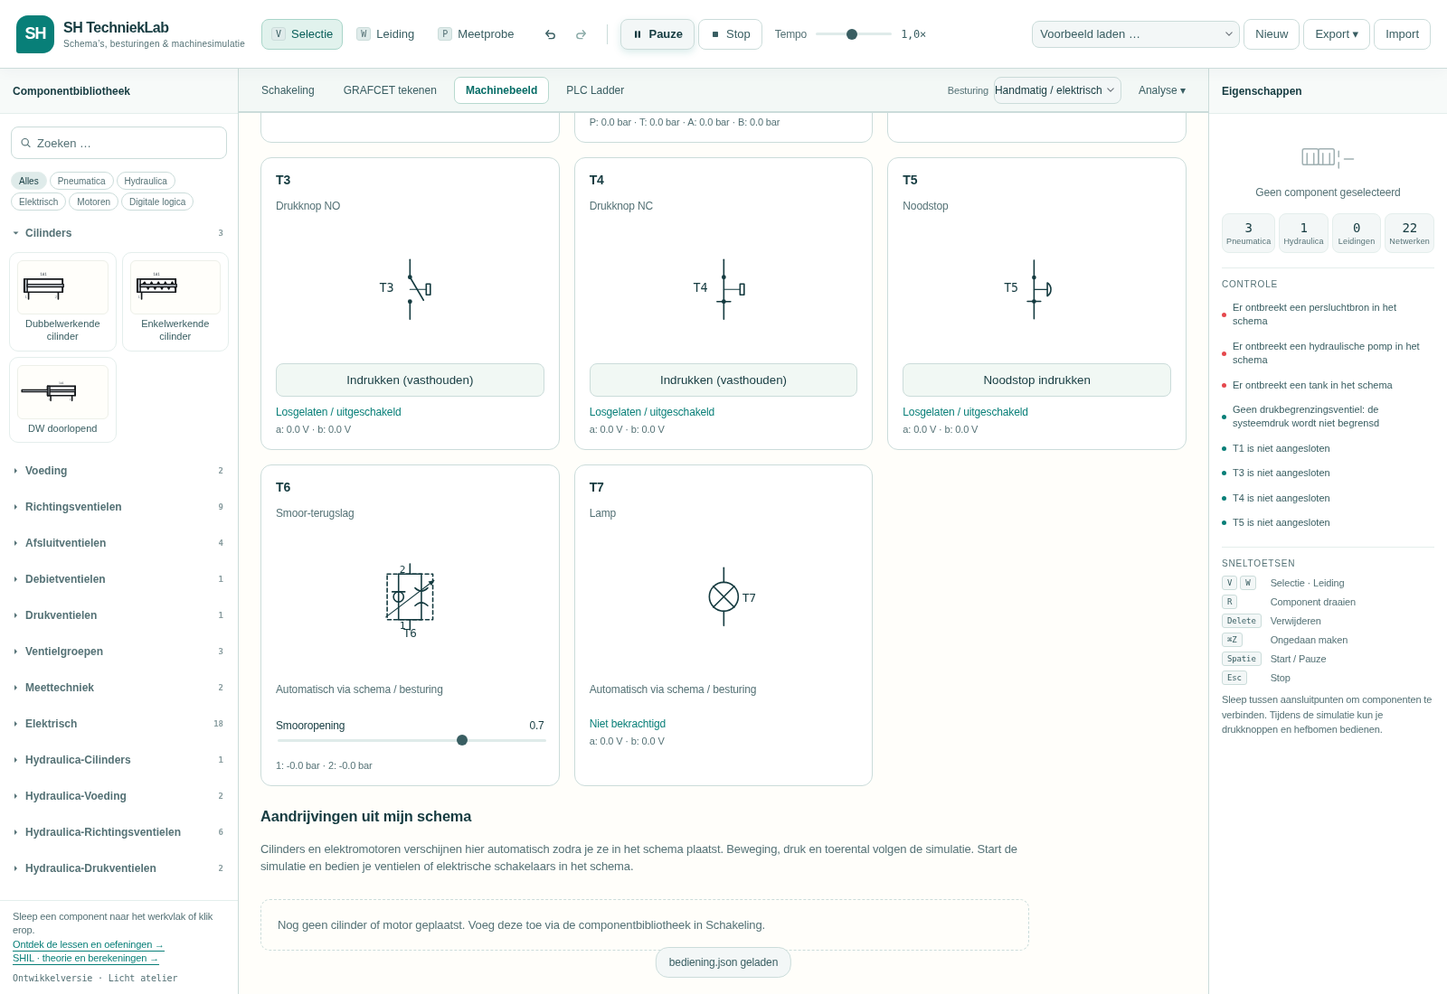
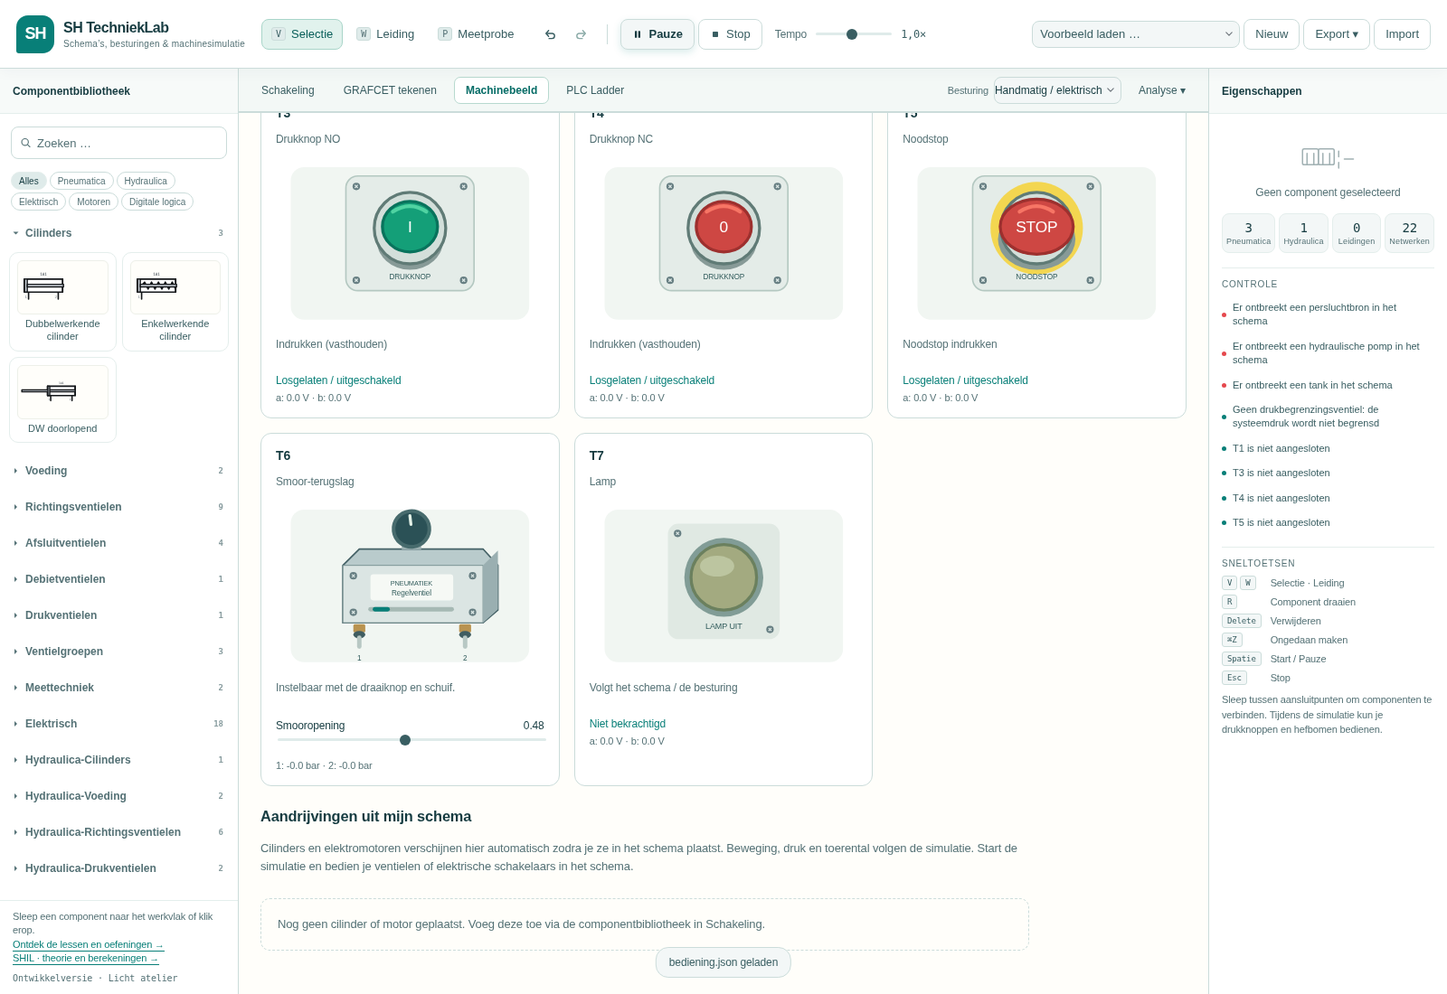
Replace process schematics with operable physical component illustrations

diff --git a/src/physical-components.js b/src/physical-components.js
@@ -1,0 +1,56 @@
+/** Own physical illustrations, deliberately independent of the schematic renderer. */
+const esc=v=>String(v).replace(/[&<>"']/g,c=>({'&':'&amp;','<':'&lt;','>':'&gt;','"':'&quot;',"'":'&#39;'}[c]));
+const text=(x,y,label,size=12,color='#335d5d')=>`<text x="${x}" y="${y}" text-anchor="middle" font-family="Arial,sans-serif" font-size="${size}" fill="${color}">${esc(label)}</text>`;
+const bolt=(x,y)=>`<circle cx="${x}" cy="${y}" r="5" fill="#667e82"/><path d="M${x-2} ${y-2}l4 4m0-4l-4 4" stroke="#dce7e5" stroke-width="1.5"/>`;
+export function physicalKind(inst,def){
+  if(['btn_no','btn_nc','estop'].includes(inst.type))return 'pushbutton';
+  if(def.geom||/ventiel|smoor/i.test(def.name))return 'valve';
+  if(/gauge/.test(inst.type))return 'gauge';
+  if(inst.type==='lamp')return 'lamp';
+  if(/sensor|switch/.test(inst.type)||/sensor|schakelaar/i.test(def.name))return 'sensor';
+  return 'module';
+}
+function pushbutton(i){
+  const pressed=!!i.sim.pressed,emergency=i.type==='estop',red=emergency||i.type==='btn_nc';
+  const color=red?'#ce4743':'#149f78',light=red?'#f77565':'#50d3a2';
+  return `<rect x="94" y="24" width="172" height="154" rx="16" fill="#e4ece8" stroke="#b4c8c1" stroke-width="2"/>${bolt(108,38)}${bolt(252,164)}${bolt(252,38)}${bolt(108,164)}${emergency?'<circle cx="180" cy="94" r="62" fill="#f3d650"/>':''}<ellipse cx="180" cy="${pressed?115:109}" rx="${emergency?52:45}" ry="41" fill="#879a97"/><circle cx="180" cy="94" r="48" fill="#d3dfda" stroke="#607b76" stroke-width="4"/><g transform="translate(0 ${pressed?7:0})"><ellipse cx="180" cy="92" rx="${emergency?49:37}" ry="${emergency?37:34}" fill="${color}" stroke="${red?'#9d302e':'#08735c'}" stroke-width="4"/><path d="M157 72Q180 57 202 72" fill="none" stroke="${light}" stroke-width="5" stroke-linecap="round"/>${text(180,99,emergency?'STOP':red?'0':'I',21,'white')}</g>${text(180,163,emergency?(pressed?'VERGRENDELD':'NOODSTOP'):(pressed?'INGEDRUKT':'DRUKKNOP'),10)}`;
+}
+function valve(i,d,sim){
+  const oil=d.ports.some(p=>p.kind==='hydraulic'),fluid=oil?'#bd8a35':'#278fbb',active=Number(i.sim.state||0),geom=d.geom;
+  const opening=i.params.opening||i.params.setpoint||i.params.pressure;
+  const act=geom?.actLeft||(d.manual?'lever':opening?'knob':'housing');
+  const right=geom?.actRight||'housing';
+  const lever=act==='lever',angle=d.manual?(i.sim.lever||0)*30:(i.sim.pressed?30:-25);
+  let image=`<path d="M90 87L112 65H278L298 87V147L278 164H90Z" fill="${oil?'#607e83':'#b9cbcc'}" stroke="#446166" stroke-width="2"/><path d="M90 87H278V164H90Z" fill="${oil?'#7e999c':'#dbe5e3'}" stroke="#6a8586"/><path d="M278 87L298 67V146L278 164Z" fill="#9aafb1"/>${bolt(104,101)}${bolt(264,101)}${bolt(104,150)}${bolt(264,150)}<rect x="127" y="99" width="111" height="35" rx="4" fill="#f6f9f5"/>${text(182,114,oil?'HYDRAULIEK':'PNEUMATIEK',9)}${text(182,128,geom?`${geom.boxes.length} standen`:'Regelventiel',10)}<rect x="124" y="143" width="115" height="6" rx="3" fill="#a6b9b4"/><rect x="${130+active*31}" y="143" width="23" height="6" rx="3" fill="#087f78"/>`;
+  if(lever){const x=d.manual?180:91;image+=`<circle cx="${x}" cy="88" r="13" fill="#344c52"/><g transform="rotate(${angle} ${x} 88)"><path d="M${x} 88V32" stroke="#a8b7b6" stroke-width="9"/><ellipse cx="${x}" cy="28" rx="15" ry="20" fill="#284a50"/><path d="M${x-5} 16V32" stroke="#58767a" stroke-width="4" stroke-linecap="round"/></g>`;}
+  else if(act==='button')image+=`<rect x="59" y="102" width="31" height="25" fill="#9cafb1"/><g transform="translate(${i.sim.pressed?9:0} 0)"><rect x="45" y="98" width="20" height="32" rx="6" fill="#c64c40"/><path d="M49 104V123" stroke="#fa9580" stroke-width="3"/></g>`;
+  else if(act==='roller')image+=`<path d="M90 92L61 ${i.sim.state?56:45}" stroke="#8d9f9d" stroke-width="8"/><circle cx="60" cy="${i.sim.state?52:41}" r="12" fill="#354f55" stroke="#9fb5ae" stroke-width="4"/>`;
+  for(const [side,a]of [[0,act],[1,right]]){
+    const x=side?297:47;
+    if(a==='solenoid'){
+      const tag=i.params[side?'solB':'solA']?.value,on=!!sim.energized.get(tag);
+      image+=`<rect x="${x}" y="94" width="40" height="48" rx="5" fill="#304a50"/><rect x="${x+8}" y="82" width="24" height="18" rx="3" fill="#415e65"/><path d="M${x+20} 82V66" stroke="#344d52" stroke-width="5"/><circle cx="${x+29}" cy="106" r="5" fill="${on?'#ffc94a':'#78908c'}"/>${text(x+20,157,tag||'Spoel',9)}`;
+    } else if(a==='pilot')image+=`<rect x="${x}" y="102" width="33" height="30" rx="6" fill="#6798a8"/><path d="M${x+16} 102V74" stroke="${fluid}" stroke-width="6"/>`;
+    else if(a==='spring')image+=`<rect x="${x}" y="100" width="24" height="33" rx="5" fill="#9fb2b3"/><path d="M${x+6} 104V129M${x+12} 104V129M${x+18} 104V129" stroke="#718c8e" stroke-width="2"/>`;
+  }
+  const ports=d.ports.filter(p=>p.kind!=='electric').slice(0,7);
+  ports.forEach((p,n)=>{const x=112+n*(142/Math.max(1,ports.length-1));const bar=oil?sim.hgauge(i.id,p.id):sim.gauge(i.id,p.id);image+=`<rect x="${x-8}" y="166" width="16" height="11" rx="2" fill="#b99350"/><ellipse cx="${x}" cy="180" rx="8" ry="5" fill="#405d61"/><path d="M${x} 184V196" stroke="${bar>.2?fluid:'#b8c8c4'}" stroke-width="6" stroke-linecap="round"/>${text(x,215,p.id,10)}`;});
+  if(opening){const f=(opening.value-opening.min)/(opening.max-opening.min);image+=`<rect x="169" y="36" width="26" height="30" fill="#9aafb0"/><g transform="rotate(${-135+270*f} 182 38)"><circle cx="182" cy="38" r="24" fill="#2b5156" stroke="#476b6d" stroke-width="5"/><path d="M182 20V32" stroke="#e4f2e8" stroke-width="4" stroke-linecap="round"/></g>`;}
+  return image;
+}
+function gauge(i,d,sim){
+  const oil=d.ports[0]?.kind==='hydraulic',bar=oil?sim.hgauge(i.id,d.ports[0].id):sim.gauge(i.id,d.ports[0].id),angle=-130+260*Math.max(0,Math.min(1,bar/(oil?250:10)));
+  let marks='';for(let n=0;n<=10;n++)marks+=`<path d="M180 40V${n%2?48:53}" transform="rotate(${-130+n*26} 180 103)" stroke="#415b60" stroke-width="2"/>`;
+  return `<rect x="172" y="171" width="16" height="26" fill="#b99350"/><circle cx="180" cy="103" r="77" fill="#95aaa9"/><circle cx="180" cy="103" r="68" fill="#fffdf5" stroke="#3d5c5f" stroke-width="3"/>${marks}<path d="M180 103V49" transform="rotate(${angle} 180 103)" stroke="#cd5143" stroke-width="4"/><circle cx="180" cy="103" r="7" fill="#365d62"/>${text(180,136,bar.toFixed(1)+' bar',17)}`;
+}
+function moduleImage(i,d){
+  const on=!!(i.sim.on||i.sim.closed||i.sim.powered),sensor=/sensor|switch|schakelaar/i.test(d.name),lamp=i.type==='lamp';
+  if(lamp)return `<rect x="105" y="31" width="150" height="155" rx="14" fill="#e0e9e3"/>${bolt(118,44)}${bolt(242,173)}<circle cx="180" cy="103" r="53" fill="#819c96"/><circle cx="180" cy="103" r="44" fill="${on?'#ffd35c':'#a3aa80'}" stroke="#6b805e" stroke-width="4"/><ellipse cx="171" cy="88" rx="23" ry="14" fill="${on?'#fff1a6':'#bcc5a0'}"/>${text(180,172,on?'LAMP AAN':'LAMP UIT',11)}`;
+  if(sensor)return `<path d="M72 109H120" stroke="#4c7279" stroke-width="9"/><rect x="118" y="81" width="133" height="48" rx="14" fill="#b7c6c4" stroke="#6c898a" stroke-width="2"/><path d="M140 83V127M150 83V127M160 83V127M170 83V127" stroke="#839b9b" stroke-width="3"/><ellipse cx="253" cy="105" rx="12" ry="24" fill="#42656d"/><circle cx="226" cy="93" r="6" fill="${on?'#ffcb47':'#809385'}"/>${text(185,158,on?'GEDETECTEERD':'SENSOR VRIJ',12)}`;
+  const controller=/^(plc|grafcet)_io$/.test(i.type),tank=i.type==='h_tank';
+  return `<path d="M95 54L117 38H269L287 54V172L268 190H95Z" fill="#8fa5a5"/><rect x="95" y="54" width="174" height="136" rx="9" fill="${tank?'#8eaaa7':controller?'#d4dfdb':'#dfe8e1'}" stroke="#637e80" stroke-width="2"/>${bolt(108,67)}${bolt(256,177)}<rect x="116" y="77" width="131" height="51" rx="5" fill="#375b60"/>${text(181,99,controller?(i.type==='plc_io'?'PLC':'GRAFCET'):tank?'OLIERESERVOIR':d.short,controller?17:11,'#eef6eb')}${text(181,118,on?'ACTIEF':'SH TechniekLab',10,'#b6d7c6')}<circle cx="237" cy="141" r="6" fill="${on?'#70cf95':'#829b8f'}"/>${Array.from({length:5},(_,n)=>`<rect x="${123+n*24}" y="165" width="16" height="17" rx="2" fill="#617e82"/><circle cx="${131+n*24}" cy="174" r="3" fill="#d5e2dc"/>`).join('')}`;
+}
+export function physicalComponentSVG(inst,def,sim){
+  const kind=physicalKind(inst,def),image=kind==='pushbutton'?pushbutton(inst):kind==='valve'?valve(inst,def,sim):kind==='gauge'?gauge(inst,def,sim):moduleImage(inst,def);
+  return `<svg xmlns="http://www.w3.org/2000/svg" viewBox="0 0 360 230" role="img" aria-label="${esc('Fysieke uitvoering: '+def.short)}" data-physical-kind="${kind}"><rect x="20" y="12" width="320" height="205" rx="18" fill="#f1f6f2"/>${image}</svg>`;
+}

diff --git a/src/process-controls.js b/src/process-controls.js
@@ -1,9 +1,8 @@
+import { physicalComponentSVG } from './physical-components.js';
 import { BY_ID } from './catalog.js';
 import { isVisualActuator } from './actuator-view.js';
 import { bindManualButton } from './manual-control.js';
 const esc=v=>String(v).replace(/[&<>"']/g,c=>({'&':'&amp;','<':'&lt;','>':'&gt;','"':'&quot;',"'":'&#39;'}[c]));
-// Inline styles also keep a printed process symbol readable outside the application.
-const ink='<style>.sym{fill:none;stroke:#153b40;stroke-width:1.6;stroke-linecap:round;stroke-linejoin:round}.sym.thin{stroke-width:1.1}.sym.fill{fill:#153b40;stroke:none}.sym.fill-soft{fill:#cfd6dd}.sym.barrel{fill:white}.sym.dash{stroke-dasharray:4 3}.sym.live-fill{fill:#c5eadc;stroke:#087f78}.sym.lamp-on{fill:#ffd66b;stroke:#a67c00}.sym-label,.sym-port,.sym-tag{fill:#153b40;stroke:none;font-family:monospace;font-size:10px}.sym-port{font-size:8px}.sym-tag{font-size:9px}.needle{stroke:#cf5548;stroke-width:1.6}</style>';
 export function processStatus(inst,def){
   const s=inst.sim,parts=[];
   if(def.manual)parts.push(`Hefboom: ${s.lever<0?'links':s.lever>0?'rechts':'midden'}`);
@@ -25,12 +24,27 @@ export class ProcessControls {
     const card=i=>{
       const def=BY_ID.get(i.type),knobs=Object.entries(i.params).filter(([key,p])=>p.type==='range'&&['opening','pressure','setpoint'].includes(key));
       const buttons=def.interactive?(def.manual?'<button data-operate="-1">◀ Links vasthouden</button><button data-operate="1">Rechts vasthouden ▶</button>':'<button data-operate="1"></button>'):`<p class="process-automatic">${knobs.length?'Handmatig instelbaar via schuif':'Volgt het schema / de besturing'}</p>`;
-      return `<article class="process-card" data-process="${esc(i.id)}"><h4>${esc(i.params.tag?.value||def.short)}</h4><p>${esc(def.short)}</p><svg viewBox="-85 -25 ${def.size.w+170} ${def.size.h+55}" role="img" aria-label="${esc(def.short)}"><g data-process-symbol></g></svg><div class="process-buttons">${buttons}</div>${def.manual?'<p>Veerterugstelling: loslaten = middenstand.</p>':''}${knobs.map(([key,p])=>`<label>${esc(p.label)} <output data-knob-value="${key}"></output><input data-process-knob="${key}" type="range" min="${p.min}" max="${p.max}" step="${p.step}" value="${p.value}"></label>`).join('')}<div data-process-state></div><div data-process-ports></div></article>`;
+      return `<article class="process-card" data-process="${esc(i.id)}"><h4>${esc(i.params.tag?.value||def.short)}</h4><p>${esc(def.short)}</p><div class="process-device ${def.interactive?'process-device-operable':''}"><div data-process-physical>${physicalComponentSVG(i,def,this.simulation())}</div><div class="process-buttons">${def.interactive?buttons:''}</div></div><p data-process-action>${def.interactive?'Bedien het fysieke onderdeel hierboven.':knobs.length?'Instelbaar met de draaiknop en schuif.':'Volgt het schema / de besturing'}</p>${def.manual?'<p>Veerterugstelling: loslaten = middenstand.</p>':''}${knobs.map(([key,p])=>`<label>${esc(p.label)} <output data-knob-value="${key}"></output><input data-process-knob="${key}" type="range" min="${p.min}" max="${p.max}" step="${p.step}" value="${p.value}"></label>`).join('')}<div data-process-state></div><div data-process-ports></div></article>`;
     };
     this.host.innerHTML=`<section class="process-overview"><h3>Bediening en ventielen uit mijn schema</h3><p>Bedien handmatige onderdelen hier rechtstreeks. Houd drukknoppen en veerteruggestelde hefbomen ingedrukt; vergrendelende knoppen blijven staan tot je opnieuw drukt. Elektrische ventielen volgen hun spoelen en sensoren volgen hun schema.</p><div class="process-grid">${parts.filter(primary).map(card).join('')}</div>${parts.some(i=>!primary(i))?`<details class="process-other"><summary>Voedingen en overige schemaonderdelen</summary><div class="process-grid">${parts.filter(i=>!primary(i)).map(card).join('')}</div></details>`:''}${parts.length?'':'<p>Plaats drukknoppen, ventielen of andere onderdelen in Schakeling; ze verschijnen hier automatisch.</p>'}</section>`;
     for(const node of this.host.querySelectorAll('[data-process]')){
       const inst=this.circuit().byId(node.dataset.process),def=BY_ID.get(inst.type);
       for(const button of node.querySelectorAll('[data-operate]'))this.disposers.push(bindManualButton(button,{inst,def,direction:Number(button.dataset.operate),run:this.run,live:()=>this.live()}));
+      const dialInput=node.querySelector('[data-process-knob]');
+      if(dialInput&&!def.interactive){
+        const device=node.querySelector('.process-device');let drag=null;
+        device.addEventListener('pointerdown',e=>{
+          if(e.button!==0)return;const svg=device.querySelector('svg'),point=svg.createSVGPoint();point.x=e.clientX;point.y=e.clientY;
+          const p=point.matrixTransform(svg.getScreenCTM().inverse());if(Math.hypot(p.x-182,p.y-38)>30)return;
+          e.preventDefault();drag={id:e.pointerId,x:e.clientX,y:e.clientY,value:Number(dialInput.value)};device.setPointerCapture(e.pointerId);
+        });
+        device.addEventListener('pointermove',e=>{
+          if(!drag||e.pointerId!==drag.id)return;const min=Number(dialInput.min),max=Number(dialInput.max),step=Number(dialInput.step);
+          const value=drag.value+(e.clientX-drag.x+drag.y-e.clientY)*(max-min)/180;
+          dialInput.value=String(Math.max(min,Math.min(max,min+Math.round((value-min)/step)*step)));dialInput.dispatchEvent(new Event('input',{bubbles:true}));
+        });
+        const end=()=>{drag=null;};device.addEventListener('pointerup',end);device.addEventListener('pointercancel',end);device.addEventListener('lostpointercapture',end);
+      }
       for(const input of node.querySelectorAll('[data-process-knob]'))input.addEventListener('input',()=>{
         const p=inst.params[input.dataset.processKnob];const n=Number(input.value);if(!Number.isFinite(n))return;
         p.value=Math.max(p.min,Math.min(p.max,n));this.parametersChanged(inst,input.dataset.processKnob);this.live();
@@ -42,13 +56,14 @@ export class ProcessControls {
     const sim=this.simulation();
     for(const card of this.host.querySelectorAll('[data-process]')){
       const inst=this.circuit().byId(card.dataset.process);if(!inst)continue;const def=BY_ID.get(inst.type);
-      const html=ink.replaceAll('.sym','[data-process-symbol] .sym').replaceAll('.needle','[data-process-symbol] .needle')+def.render(inst),symbol=card.querySelector('[data-process-symbol]');if(symbol._markup!==html){symbol.innerHTML=html;symbol._markup=html;}
+      const html=physicalComponentSVG(inst,def,sim),image=card.querySelector('[data-process-physical]');if(image._markup!==html){image.innerHTML=html;image._markup=html;}
       card.querySelector('[data-process-state]').textContent=processStatus(inst,def);
       card.querySelector('[data-process-ports]').textContent=def.ports.map(p=>p.kind==='electric'?`${p.id}: ${sim.volts(inst.id,p.id).toFixed(1)} V`:`${p.id}: ${(p.kind==='hydraulic'?sim.hgauge(inst.id,p.id):sim.gauge(inst.id,p.id)).toFixed(1)} bar`).join(' · ');
       for(const button of card.querySelectorAll('[data-operate]')){
         const active=def.manual?inst.sim.lever===Number(button.dataset.operate):!!inst.sim.pressed;button.setAttribute('aria-pressed',String(active));
         if(!def.manual)button.textContent=inst.type==='estop'?(active?'Noodstop ontgrendelen':'Noodstop indrukken'):inst.type==='industrial_overload'?'Thermisch relais resetten':def.toggle?(active?'Uitschakelen / vrijgeven':'Inschakelen / vergrendelen'):'Indrukken (vasthouden)';
       }
+      if(def.interactive)card.querySelector('[data-process-action]').textContent=def.manual?'Houd de linker- of rechterkant van de hefboom ingedrukt.':card.querySelector('[data-operate]').textContent;
       for(const output of card.querySelectorAll('[data-knob-value]')){const p=inst.params[output.dataset.knobValue];output.textContent=String(p.value)+(p.unit?' '+p.unit:'');}
     }
   }

diff --git a/styles.css b/styles.css
@@ -1174,3 +1174,5 @@ a { color: var(--accent); text-underline-offset: 3px; }
 /* Floating outside the horizontally scrolling topbar prevents menu clipping. */
 #export-menu{position:fixed;right:auto;z-index:10000;max-width:calc(100vw - 16px);max-height:calc(100vh - 16px);overflow-y:auto}
 .process-overview{margin:24px 0}.process-overview>p{max-width:850px;font-size:13px;line-height:1.5;color:var(--text-3)}.process-grid{display:grid;grid-template-columns:repeat(auto-fit,minmax(255px,1fr));gap:16px}.process-card{min-width:0;background:white;border:1px solid var(--line);border-radius:12px;padding:16px}.process-card h4{margin:0;overflow-wrap:anywhere}.process-card p{font-size:12px;color:var(--text-3);line-height:1.5}.process-card svg{width:100%;height:150px}.process-buttons{display:flex;flex-wrap:wrap;gap:6px}.process-buttons button{flex:1;padding:10px;border:1px solid var(--line);border-radius:8px;background:#f1f8f4;color:var(--text);touch-action:none;cursor:pointer}.process-buttons button[aria-pressed=true]{background:#c5eadc;border-color:var(--accent)}.process-card[data-process] label{display:block;font-size:12px;margin:12px 0}.process-card input[type=range]{width:100%}.process-card output{float:right;font-variant-numeric:tabular-nums}.process-card [data-process-state]{margin-top:10px;font-size:12px;color:var(--accent)}.process-card [data-process-ports]{font-size:11px;color:var(--text-3);margin-top:6px;overflow-wrap:anywhere}.process-other{margin-top:16px}.process-other summary{cursor:pointer;margin-bottom:14px}.process-card button:focus-visible{outline:3px solid #087f78;outline-offset:3px}
+/* The pictured device itself is the control, with transparent native button hit areas. */
+.process-device{position:relative}.process-device [data-process-physical]>svg{display:block;width:100%;height:auto;max-height:220px}.process-device .process-buttons{position:absolute;inset:0;display:flex;gap:0}.process-device .process-buttons button{background:transparent!important;color:transparent;border:0;margin:0;border-radius:18px;font-size:0;cursor:pointer}.process-device .process-buttons button[aria-pressed=true]{background:transparent;border:0}.process-device .process-buttons button:focus-visible{outline:3px solid #087f78;outline-offset:-5px;background:#087f7810!important}.process-device-operable{user-select:none}.process-device-operable:hover{filter:brightness(.98)}.process-card [data-process-action]{min-height:32px;font-size:12px;color:var(--text-3);margin:8px 0}

diff --git a/docs/HANDLEIDING-NL.md b/docs/HANDLEIDING-NL.md
@@ -198,15 +198,15 @@ Onder **Extra: interne verbindingen tekenen** kies je een stand en klik je twee 
 
 ## Drukknoppen en ventielen bedienen in Machinebeeld
 
-Onder **Bediening en ventielen uit mijn schema** verschijnen automatisch de drukknoppen, noodstop, handventielen, elektrische/pneumatische stuurventielen, sensoren, spoelen en lampen uit je schema. Onder **Voedingen en overige schemaonderdelen** vind je de overige componenten. De symbolen en meetwaarden volgen dezelfde simulatie als het schema.
+Onder **Bediening en ventielen uit mijn schema** verschijnen automatisch de drukknoppen, noodstop, handventielen, elektrische/pneumatische stuurventielen, sensoren, spoelen en lampen uit je schema. Onder **Voedingen en overige schemaonderdelen** vind je de overige componenten. Je ziet fysieke afbeeldingen: ronde drukknoppen, een rode paddenstoelnoodstop, metalen ventielblokken met hefboom, drukknop of spoelen, sensoren en lampen. Druk rechtstreeks op de afbeelding om het onderdeel te bedienen. Standen, indicatielampjes en meetwaarden volgen dezelfde simulatie als het schema.
 
 - **Indrukken (vasthouden)** bedient een momentane knop zolang je de muis/vinger of Spatie/Enter ingedrukt houdt. Loslaten, annuleren, focusverlies en een ander tabblad openen geven de knop vrij.
 - Vergrendelende knoppen en ventielen blijven in hun gekozen toestand staan. Druk opnieuw om vrij te geven. Bij de noodstop heet dit **Noodstop ontgrendelen**.
 - Een hydraulisch 4/3-handventiel heeft **Links vasthouden** en **Rechts vasthouden**. Loslaten laat de hefboom terugveren naar de middenstand.
-- Met de schuiven wijzig je smooropeningen en drukinstellingen. Dit verandert dezelfde componentinstelling als het eigenschappenpaneel en wordt met je schema opgeslagen; ongedaan maken is beschikbaar.
+- Bij een instelventiel kun je de afgebeelde draaiknop naar rechts/omhoog slepen om de instelling te verhogen, of naar links/omlaag om te verlagen. Met de schuiven wijzig je eveneens smooropeningen en drukinstellingen. Dit verandert dezelfde componentinstelling als het eigenschappenpaneel en wordt met je schema opgeslagen; ongedaan maken is beschikbaar.
 - Automatisch bediende ventielen krijgen geen rechtstreekse handbediening. Ze schakelen via hun echte spoel- of stuursignalen. Eindstandsensoren blijven door hun gekoppelde cilinder bediend.
 
-Handbediening start de simulatie als die nog niet loopt. Het geeft een fysieke input aan het model en omzeilt geen bedrading, defecten of programmavoorwaarden. Afdrukken neemt de zichtbare componentsymbolen mee, zonder bedieningsknoppen.
+Handbediening start de simulatie als die nog niet loopt. Het geeft een fysieke input aan het model en omzeilt geen bedrading, defecten of programmavoorwaarden. Afdrukken neemt de fysieke afbeeldingen mee. In het schemablad blijven de technische symbolen behouden.
 
 ## Alle cilinders en motoren zichtbaar simuleren
 

diff --git a/README.md b/README.md
@@ -12,7 +12,7 @@ De vroegere naam was **SH PN · HYD**. De repository blijft `DHRHermans/SHPNHYD`
 - Ventielbediening, veer/geheugen en beschikbare middenstanden kiezen. Als extra kun je per stand interne verbindingen tussen bestaande poorten tekenen.
 - GRAFCET tekenen en PLC Ladder opbouwen met contacten, parallelle takken, spoelen, set/reset en TON/TOF-timers.
 - Een **PLC- of GRAFCET-module met 8 ingangen en 8 uitgangen** in het schema plaatsen en elektrisch bedraden.
-- Drukknoppen en handventielen direct bedienen in Machinebeeld; automatische ventielen, sensoren, spoelen en overige onderdelen volgen dezelfde schematoestand.
+- Fysiek afgebeelde drukknoppen en handventielen direct bedienen in Machinebeeld; automatische ventielen, sensoren, spoelen en overige onderdelen volgen dezelfde schematoestand.
 - Automatisch bewegende beelden van alle pneumatische/hydraulische cilinders en driefasen-/DC-motoren uit je schema, inclusief slag, druk, toerental en draairichting.
 - In **Machinebeeld** zelf een kolombooropstelling bouwen: onderdelen plaatsen en verslepen, eigen cilinders/motor/signalen koppelen en zelf GRAFCET of Ladder tekenen. Het beeld volgt jouw schema; een uitgewerkt lesvoorbeeld is apart beschikbaar.
 - Oscilloscoop, weg-stapdiagram en onderdelenlijst als verplaatsbare analysevensters openen.

diff --git a/docs/TESTING.md b/docs/TESTING.md
@@ -87,3 +87,5 @@ The combined suite contains 166 executed tests. Browser checks cover manual and 
 CI checks Node.js 18, 20, 22 and 24; the Pages build uses Node.js 22. The final local run used Node.js 24.
 
 The process controls were checked in Chromium for pointer and keyboard holds, release on blur and workspace changes, latching buttons, spring-centred hydraulic levers and live throttle adjustment. Export choices were verified with actual pointer hit testing at 1600, 1024 and 700 px. A real one-page A4 PDF and standalone SVG were inspected after removing wire hit targets; the SH logo and clean open wire paths are retained.
+
+Physical process illustrations replace all schematic rendering in process cards. Browser checks verify round NO/NC buttons and emergency stop, valve blocks, working direct knob dragging, momentary and latching actuation, hydraulic lever return and the absence of schematic symbol classes in the process cards.

diff --git a/CHANGELOG.md b/CHANGELOG.md
@@ -1,5 +1,13 @@
 # Changelog
 
+## 1.1.3 — Fysieke componenten in het machinebeeld
+
+- Eigen fysieke afbeeldingen vervangen de schemasymbolen in het procesbeeld: ronde drukknoppen, paddenstoelnoodstop, ventielblokken, hefbomen, spoelen, sensoren, lampen en modules.
+- Het afgebeelde onderdeel zelf is bedienbaar met muis, aanraking en toetsenbord.
+- Indrukbeweging, hefboomstand, spoelindicatie en lampstatus volgen de simulatie.
+- Instelventielen hebben een draaiknop die via verslepen instelbaar is; de schuif blijft als alternatief beschikbaar.
+- Het schema behoudt zijn technische symbolen; afdrukken van Machinebeeld gebruikt de fysieke afbeeldingen.
+
 ## 1.1.2 — Handbediening in het procesbeeld en correcte export
 
 - Drukknoppen, handventielen, automatische ventielen, sensoren, spoelen en overige onderdelen worden in Machinebeeld zichtbaar.
